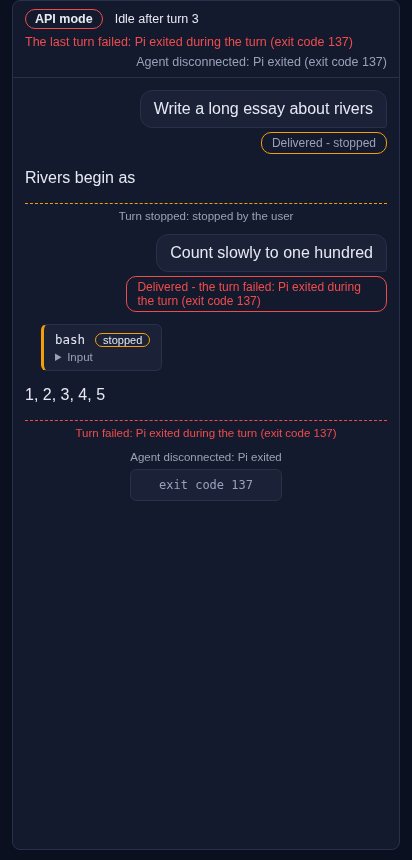
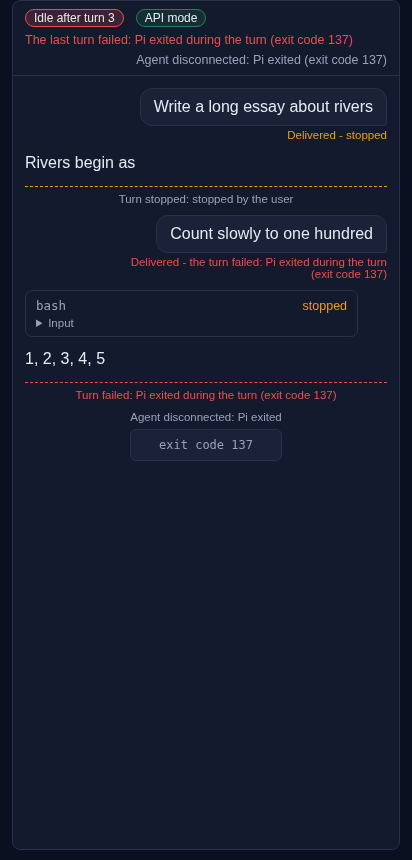
API mode phase 3: follow the design report's look for the status line, receipts and tool cards (#4070)
The status line now has the report's two pills: the activity first, filled in
the Gateway's tone, then the connection. A receipt is small words under the
owner's prompt in its tone, not a bordered pill. A tool card puts the tool on
the left and its status words on the right. The proof screenshots and
accessibility dumps are captured again.

diff --git a/packages/client-core/src/apimode/apiModeLiveChat.css b/packages/client-core/src/apimode/apiModeLiveChat.css
@@ -29,16 +29,23 @@
   color: var(--text-dim);
 }
 
+/* The two pills of the design report's status line: the activity, filled in the Gateway's tone, then the connection. */
 .live-chat-pill {
-  padding: 2px 9px;
-  border: 1px solid var(--live-tone);
-  border-radius: 999px;
+  padding: 1px 8px;
+  border: 1px solid var(--border);
+  border-radius: 10px;
+  font-size: 12px;
   color: var(--text);
-  font-weight: 600;
 }
 
 .live-chat-activity {
-  color: var(--text);
+  border-color: var(--live-tone);
+  background: color-mix(in srgb, var(--live-tone) 18%, transparent);
+}
+
+.live-chat-connection {
+  border-color: color-mix(in srgb, var(--ok) 55%, var(--border));
+  background: color-mix(in srgb, var(--ok) 12%, transparent);
 }
 
 .live-chat-status-part.live-tone-red {
@@ -80,7 +87,7 @@
   margin: 0 auto;
   display: flex;
   flex-direction: column;
-  gap: 12px;
+  gap: 10px;
 }
 
 /* The agent's reply: the whole column, no card around it. */
@@ -108,24 +115,25 @@
   overflow-wrap: anywhere;
 }
 
-/* A tool call: a small card inset from the left, its edge in the Gateway's tone (running, done, failed, stopped). */
+/* A tool call: a card with the tool on the left and its status words on the right, in the Gateway's tone (running,
+   done, failed, stopped), as the design report draws it. */
 .live-chat-tool {
-  align-self: flex-start;
-  max-width: 88%;
+  align-self: stretch;
+  max-width: 92%;
   min-width: 0;
-  margin-left: 16px;
-  padding: 7px 11px;
-  background: var(--surface-2);
+  padding: 7px 10px;
+  background: var(--surface);
   border: 1px solid var(--border);
-  border-left: 3px solid var(--live-tone);
-  border-radius: 6px;
+  border-radius: 7px;
   font-size: 12.5px;
 }
 
 .live-chat-tool-head {
   display: flex;
   align-items: baseline;
+  justify-content: space-between;
   gap: 10px;
+  color: var(--text-dim);
 }
 
 .live-chat-tool-title {
@@ -135,11 +143,13 @@
 
 .live-chat-tool-status {
   flex: 0 0 auto;
-  padding: 0 7px;
-  border: 1px solid var(--live-tone);
-  border-radius: 999px;
-  font-size: 11px;
-  color: var(--text);
+  color: var(--accent);
+}
+
+.live-tone-green .live-chat-tool-status,
+.live-tone-yellow .live-chat-tool-status,
+.live-tone-red .live-chat-tool-status {
+  color: var(--live-tone);
 }
 
 .live-chat-tool-detail summary {
@@ -153,12 +163,12 @@
    --you-bubble-* tokens where the shell has them, the phone's own surface where it does not. */
 .live-chat-prompt {
   align-self: flex-end;
-  max-width: 72%;
+  max-width: 75%;
   min-width: 0;
   display: flex;
   flex-direction: column;
   align-items: flex-end;
-  gap: 4px;
+  gap: 3px;
 }
 
 .live-chat-prompt-text {
@@ -171,20 +181,19 @@
   overflow-wrap: anywhere;
 }
 
-/* A prompt's receipt: under the owner's words. */
+/* A prompt's receipt: small words under the owner's, in the Gateway's tone (the design report's receipt line). */
 .live-chat-receipt {
   max-width: 100%;
-  padding: 3px 10px;
-  border: 1px solid var(--live-tone);
-  /* Not a full pill: a refusal's reason can wrap to several lines. */
-  border-radius: 10px;
+  font-size: 11.5px;
   color: var(--text-dim);
-  font-size: 12px;
+  text-align: right;
   overflow-wrap: anywhere;
 }
 
+.live-chat-receipt.live-tone-green,
+.live-chat-receipt.live-tone-yellow,
 .live-chat-receipt.live-tone-red {
-  color: var(--attention);
+  color: var(--live-tone);
 }
 
 /* The line that ends a turn, across the column like a divider. */

diff --git a/packages/client-core/src/apimode/ApiModeLiveChat.tsx b/packages/client-core/src/apimode/ApiModeLiveChat.tsx
@@ -87,9 +87,10 @@ export function ApiModeLiveChat({ sessionId, display, streamDeps }: ApiModeLiveC
  *  turn's stopped or failed ending, and the agent process. All of it the Gateway's words. */
 function LiveStatus({ display }: { display: ApiModeSessionDisplay }) {
   return (
-    <div className={`live-chat-status ${toneClass(display.tone)}`} role="status" aria-label="Session status">
-      {display.connectionLabel && <span className="live-chat-pill">{display.connectionLabel}</span>}
-      {display.activityLabel && <span className="live-chat-activity">{display.activityLabel}</span>}
+    <div className="live-chat-status" role="status" aria-label="Session status">
+      {/* The design report's order: what the agent is doing first, in the Gateway's tone, then how it is connected. */}
+      {display.activityLabel && <span className={`live-chat-pill live-chat-activity ${toneClass(display.tone)}`}>{display.activityLabel}</span>}
+      {display.connectionLabel && <span className="live-chat-pill live-chat-connection">{display.connectionLabel}</span>}
       {display.queueLabel && <span className="live-chat-status-part">{display.queueLabel}</span>}
       {display.lastTurnEnding && <span className="live-chat-status-part live-tone-red">{display.lastTurnEnding}</span>}
       {display.agentLabel && <span className="live-chat-status-part live-chat-agent">{display.agentLabel}</span>}
